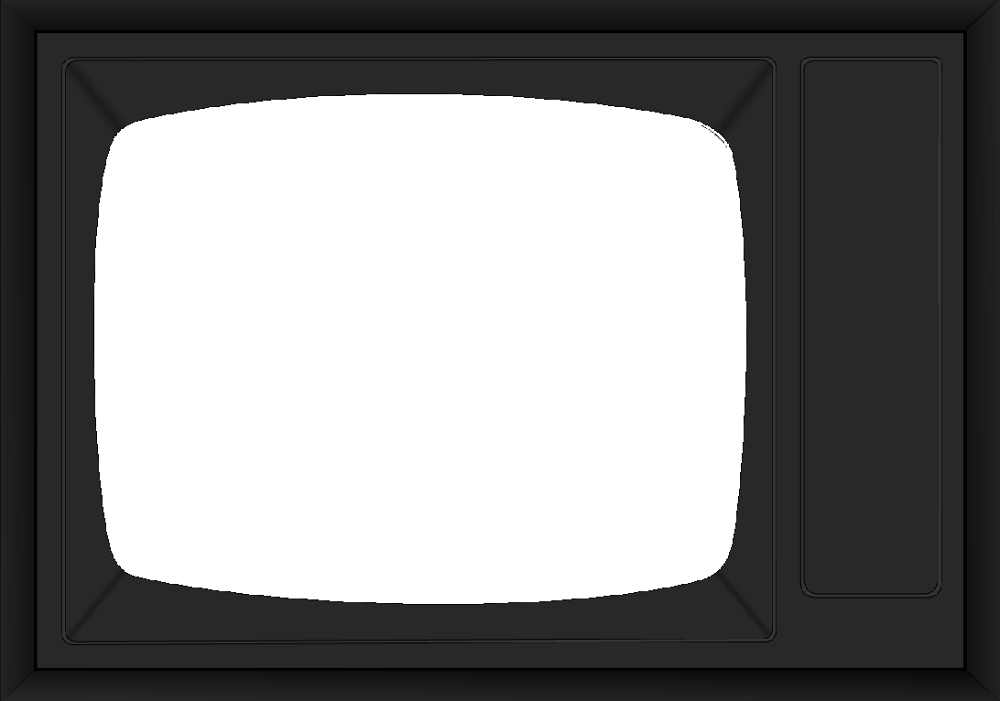
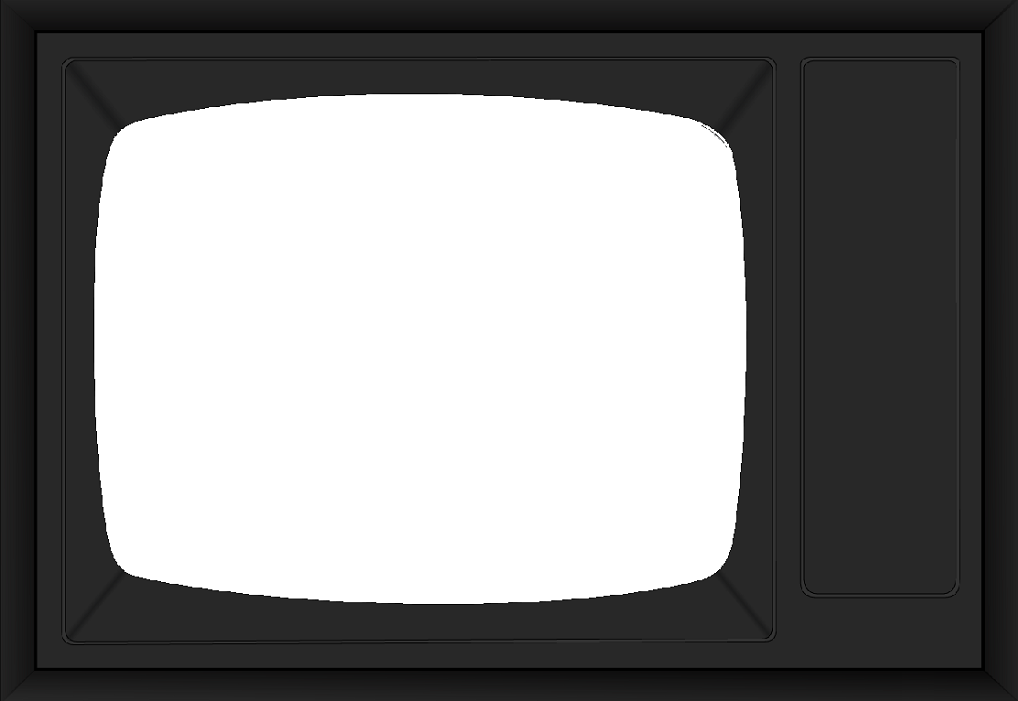
*Layout...

diff --git a/osindicados/templates/jogo/partida.html b/osindicados/templates/jogo/partida.html
@@ -3,7 +3,7 @@
 {% block tela %}
 	{% load osindicados_filters %}
 		<div id="alternativas">
-	
+	<a href="#" onclick="$('#timer').countdown('pause'); return false;">Pausar</a>
 	<h1 style="text-align: center;">Pergunta {{ respondidas|add:"1"}}/25 (tema: {{ pergunta.idAssunto.id|getImagem|safe }})</h1>
 	<br/>
 	<h2>{{ pergunta.enunciado }}</h2>
@@ -57,9 +57,9 @@
 	<div id="telaFooter">
 		<div id="ajudas">
 			
-			<a href="../ajudaTroca/"><img src="/osindicadosmedia/img/reload.png" width="46px" height="" style="border-style: none"/></a>&nbsp;&nbsp;&nbsp;&nbsp;
-            {% if not eliminadas %}<a href="#" onclick="ajudaElimina(); return false;"><img src="/osindicadosmedia/img/strikethrough.png" width="46px" height="" style="border-style: none"/></a> &nbsp;&nbsp;&nbsp;&nbsp;{% endif %}    
-			<a href="../ajudaTempo/" onclick="alert('Aumentando seu tempo...'); return false;"><img src="/osindicadosmedia/img/ampulheta.jpg" width="34px" height="46px" style="border-style: none"/></a>
+			<a href="../ajudaTroca/"><img src="/osindicadosmedia/img/reload.png" width="" height="32px" style="border-style: none"/></a>&nbsp;&nbsp;&nbsp;&nbsp;&nbsp;&nbsp;&nbsp;   
+            {% if not eliminadas %}<a href="#" onclick="ajudaElimina(); return false;"><img src="/osindicadosmedia/img/strikethrough.png" width="" height="32px" style="border-style: none"/></a> &nbsp;&nbsp;&nbsp;&nbsp;&nbsp;&nbsp;&nbsp;   {% endif %}    
+			<a href="../ajudaTempo/" onclick="alert('Aumentando seu tempo...'); return false;"><img src="/osindicadosmedia/img/ampulheta.jpg" width="" height="32px" style="border-style: none"/></a>
 			<br/>
 			{{ ajudas.troca|imprimirEstrelas|safe }} &nbsp;&nbsp;&nbsp;&nbsp;
 			{{ ajudas.elimina|imprimirEstrelas|safe }} &nbsp;&nbsp;&nbsp;&nbsp;
@@ -94,23 +94,63 @@
 
 {% block sidebar %}	
 	
-	<h1>Voc&ecirc; est&aacute; assistindo:</h1>
+	<h1 class="sidebar">Voc&ecirc; est&aacute; assistindo:</h1>
 	
+	<!--  
+	Temas jogo: <br/>	 
 	<ul>
+	       {% for temajogo in temasjogo %}
+               <li>{{ temajogo }}</li>
+            {% endfor %}
+	</ul>
+	
+	Confs.Temas:
+	<ul>
+	       {% for tema in confs.temas %}
+                <li>{{tema}}</li>
+            {% endfor %}
+	</ul>
+	-->
+	
+	
+	
 	    
-	     <li>{% for temajogo in temasjogo %}
+	           
+	     {% for temajogo in temasjogo %}
                 {% if temajogo in confs.temas %}
-                    <span class="in">{{ temajogo }} in</span>
+                    <!-- <span class="in">{{ temajogo }} in</span> -->
+                
+                    <label class="temaselecionado ui-state-active ui-button ui-widget ui-state-default ui-corner-all ui-button-text-icon" for="{{ temajogo }}">
+                        <span class="ui-button-icon-primary ui-icon ui-icon-circle-check"></span>
+                        <span class="ui-button-text" style="text-align: left; cursor: default;">{{ temajogo }}</span>
+                    </label>
+                    
+                    
                 {% else %}
-                    <span class="out">{{ temajogo }} out</span>
+                    <!-- <span class="out">{{ temajogo }} out</span> -->
+                    <label for="{{ temajogo }}" class="temaselecionado ui-button ui-widget ui-state-default ui-corner-all ui-button-text-icon" aria-pressed="false" role="button" aria-disabled="false">
+                        <span class="ui-button-icon-primary ui-icon ui-icon-circle-check naoselecionado" id="naoselecionado-{{forloop.counter}}"></span>
+                        <span class="ui-button-text" style="text-align: left; cursor: default;">{{ temajogo }}</span>
+                    </label>
+                    
+                    
                 {% endif %}
             {% endfor %}
-        </li>
+        
         
         <br/>
         <br/>
-        <li>Dificuldade: {{ confs.dificuldade }}</li>
+    
+        <h1 class="sidebar">Dificuldade:</h1>
+        
+        
+        <p class="nomeDificuldade">{{ confs.dificuldade|nomeDificuldade }}</p>
 	    
+	    <p style="text-align: center;">
+		    <a href="../config/" class="ui-button ui-widget ui-state-default ui-corner-all ui-button-text-only" role="button" aria-disabled="false" style="width: 90%; ">
+		       <span class="ui-button-text">Iniciar nova Partida</span>
+		    </a>
+	    </p>
 	    <!-- 
 	    <li>{% for temaselecionado in confs.temas %}
                 {% if temaselecionado in temasjogo %}
@@ -127,6 +167,5 @@
             {% endfor %}
         </li>
         -->
-	</ul>
-	
+		
 {% endblock sidebar %}

diff --git a/osindicados/media/css/jquery-ui-1.8.2.custom.css b/osindicados/media/css/jquery-ui-1.8.2.custom.css
@@ -83,7 +83,7 @@
 .ui-icon { width: 16px; height: 16px; background-image: url(images/ui-icons_222222_256x240.png); }
 .ui-widget-content .ui-icon {background-image: url(images/ui-icons_222222_256x240.png); }
 .ui-widget-header .ui-icon {background-image: url(images/ui-icons_222222_256x240.png); }
-.ui-state-default .ui-icon { background-image: url(images/ui-icons_666666_256x240.png); }
+.ui-state-default .ui-icon { background-image: url(images/ui-icons_222222_mod_256x240.png); }
 .ui-state-hover .ui-icon, .ui-state-focus .ui-icon {background-image: url(images/ui-icons_454545_256x240.png); }
 .ui-state-active .ui-icon {background-image: url(images/ui-icons_e8ff05_256x240.png); }
 .ui-state-highlight .ui-icon {background-image: url(images/ui-icons_2e83ff_256x240.png); }

diff --git a/osindicados/media/css/partida.css b/osindicados/media/css/partida.css
@@ -28,7 +28,7 @@ html{
     position: inherit;
     top: 80px;
     left: 800px;
-    width: 130px;
+    width: 147px;
     height: 500px;
     border: medium;
     border-style: solid;
@@ -90,4 +90,33 @@ body{
 
 .out{
 	color: red;
+}
+
+.temaselecionado{
+    width: 95%;
+    margin: 3px;
+}
+
+
+h1.sidebar{
+    color: white;
+    font-family: Arial, Verdana;
+    font-size: 18px;
+    text-align: center;    
+}
+
+.nomeDificuldade{
+    text-align: center;
+    font-size: 14px;
+    margin-bottom: 30px;
+    margin-top: -10px;
+    color: yellow;
+}
+
+.naoselecionado{
+	background-image: url("images/ui-icons_222222_mod_256x240.png");
+}
+
+.ui-icon.naoselecionado{
+    background-image: url("images/ui-icons_222222_mod_256x240.png");
 }

diff --git a/osindicados/templates/jogo/base.html b/osindicados/templates/jogo/base.html
@@ -6,9 +6,12 @@
     <script type="text/javascript" src="/osindicadosmedia/js/jquery.countdown.js"></script>
     <script type="text/javascript" src="/osindicadosmedia/js/jquery.countdown-pt-BR.js"></script>
     <script type="text/javascript" src="/osindicadosmedia/js/javascript.js"></script>
+    <script type="text/javascript" src="/osindicadosmedia/js/jquery-ui-1.8.2.custom.min.js"></script>
     
     <link rel="stylesheet" href="/osindicadosmedia/css/jquery.countdown.css" />
     <link rel="stylesheet" href="/osindicadosmedia/css/partida.css" />
+    <link rel="stylesheet" href="/osindicadosmedia/css/jquery-ui-1.8.2.custom.css" />
+    
     <title>Os Indicados</title>
 </head>
 

diff --git a/osindicados/jogo/views.py b/osindicados/jogo/views.py
@@ -10,10 +10,9 @@ from osindicados.jogo.partidaconfs import *
 from osindicados.jogo.utils import sortearAlternativas, selectPlacares
 import time
 import random
-from django.core.context_processors import request
 
 
-temasjogo = ['Esporte', 'Cinema', 'Música', 'Conhecimentos Gerais', 'Ciências']
+temasjogo = ['Esporte', 'Cinema', u'Música', u'Televisão', 'Conhecimentos Gerais', u'Ciências']
 
 def index(request):
     temas = Tema.objects.all()
@@ -62,7 +61,7 @@ def partida(request):
         request.session['alternativas'] = mixed
         print "Eliminadas: ", request.session.get('eliminadas')
 
-        return render_to_response('jogo/partida.html', {'confs': request.session['confs'], 'pergunta' : pergunta, 'alternativas' : mixed, 'respondidas' : request.session.get('respondidas'), 'ajudas' : request.session.get('ajudas'), 'eliminadas' : request.session.get('eliminadas'), 'placar' : request.session.get('placar')}, context_instance=RequestContext(request))
+        return render_to_response('jogo/partida.html', {'confs': request.session['confs'], 'pergunta' : pergunta, 'alternativas' : mixed, 'respondidas' : request.session.get('respondidas'), 'ajudas' : request.session.get('ajudas'), 'eliminadas' : request.session.get('eliminadas'), 'placar' : request.session.get('placar'), 'temasjogo' : temasjogo}, context_instance=RequestContext(request))
     # Usuário ainda não configurou a partida
     else:
         return HttpResponse("Vc ainda nao configurou sua partida.")

diff --git a/osindicados/jogo/templatetags/osindicados_filters.py b/osindicados/jogo/templatetags/osindicados_filters.py
@@ -1,6 +1,6 @@
 from django import template
 from osindicados.jogo.models import Tema
-from distutils.tests.setuptools_build_ext import if_dl
+from osindicados.jogo.views import temasjogo
 
 
 register = template.Library()
@@ -158,4 +158,42 @@ def isInConfs(tema):
         return Tema.objects.filter(nome=tema)[0].imagemTrofeu
     else:
         return False;
-       
+   
+@register.filter
+def printVoceEstaAssistindo(temasSelecionados):
+    """
+    """
+    print "Temas:"
+    for tema in temasSelecionados:
+        print tema
+        
+    print "TemasJogo:"    
+    for temajogo in temasjogo:
+        print temajogo
+   
+@register.filter
+def nomeDificuldade(numeroDificuldade):
+    """
+    """
+    print "Numero dificuldade:", numeroDificuldade
+    numDificuldade = int(numeroDificuldade)
+    
+    if numDificuldade == 0:
+        return "Amador"
+    elif numDificuldade == 1:
+        return "Profissional" 
+    elif numDificuldade == 2:
+        return "Celebridade"
+    elif numDificuldade == 3:
+        return "&Iacute;dolo"
+    else:
+        return "Desconhecida"   
+    
+    
+    
+    
+    
+    
+    
+    
+      
